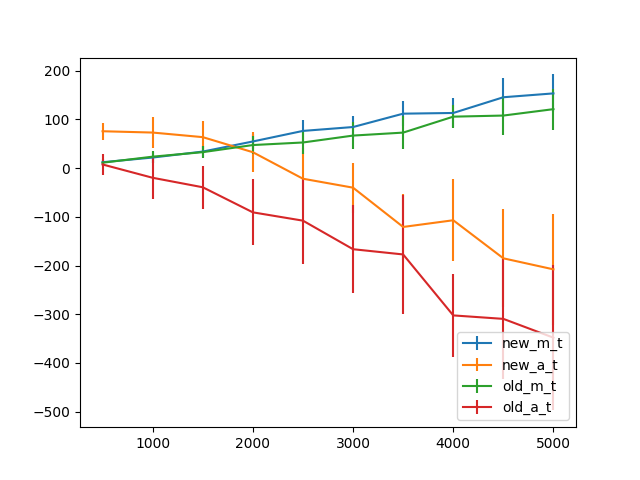
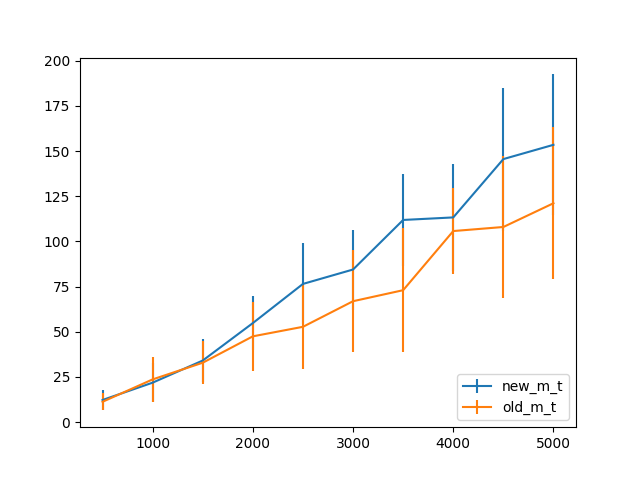
fixed the plot

diff --git a/compute_error_bars.py b/compute_error_bars.py
@@ -88,9 +88,9 @@ old_Xs, old_Y1, old_Y2, old_err_Y1, old_err_Y2 = compute_error_bars(  list( rang
 
 fig = plt.figure()
 plt.errorbar(Xs, Y1, yerr=err_Y1, label='new_m_t')
-plt.errorbar(Xs, Y2, yerr=err_Y2, label='new_a_t')
+#plt.errorbar(Xs, Y2, yerr=err_Y2, label='new_a_t')
 plt.errorbar(old_Xs, old_Y1, yerr=old_err_Y1, label='old_m_t')
-plt.errorbar(old_Xs, old_Y2, yerr=old_err_Y2, label='old_a_t')
+#plt.errorbar(old_Xs, old_Y2, yerr=old_err_Y2, label='old_a_t')
 plt.legend(loc='lower right')
 
 plt.savefig( './plots/old_new_exp_together.png' )
